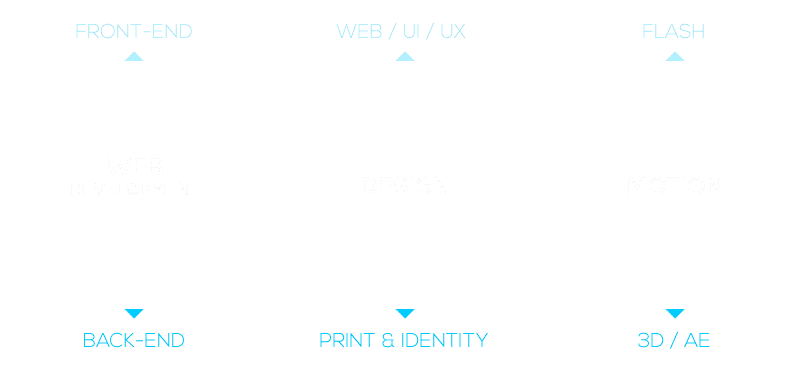
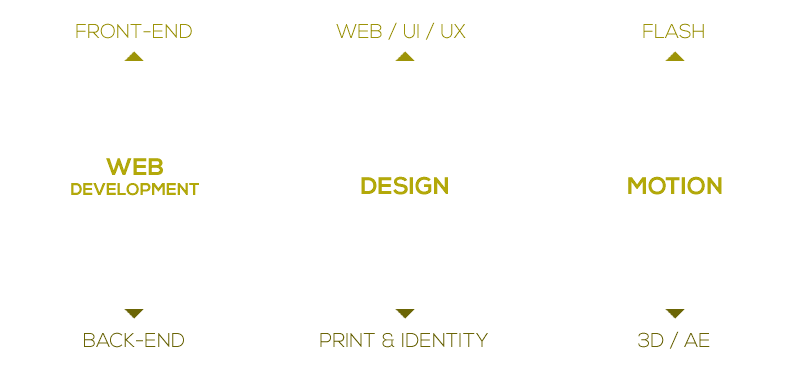
ui  changes

diff --git a/src/app/component/skills/skills.component.ts b/src/app/component/skills/skills.component.ts
@@ -1,9 +1,68 @@
 import { Component } from '@angular/core';
+import { HostListener, ElementRef } from '@angular/core';
+import {
+  trigger,
+  state,
+  style,
+  animate,
+  transition,
+  keyframes
+} from '@angular/core';
+
 
 @Component({
   templateUrl: './skills.html',
-    styleUrls:['./skills.css']
+    styleUrls:['./skills.css'],
+      animations: [
+    trigger('moveBgImageSection', [
+      state('show', style({
+        opacity:0.4,
+        transform: "translate3d(0,0,0)",
+        transition: 'all 0.5s ease-in 1s'
+      })),
+      state('hide',style({
+        opacity: 0,
+        transform: "translateX(0%)",
+        transition: 'all 0.5s ease-in 1s'
+      })),
+      transition('hide => show', animate('700ms ease-out')),
+      transition('show => hide', animate('700ms ease-out'))
+    ]),
+    trigger('moveBgImage', [
+      state('show', style({
+        opacity:0.5,
+        transform: "translate3d(0px, -101.543px, 0px) scale(1.20147)",
+        transition: 'all 0.5s ease-in 1s'
+      })),
+      state('hide',style({
+       opacity:1,
+        transform: "translateX(0%)",
+        transition: 'all 0.5s ease-in 1s'
+      })),
+      transition('hide => show', animate('700ms ease-out')),
+      transition('show => hide', animate('700ms ease-out'))
+    ]),
+  ]
 })
 
 // Component class
-export class SkillsComponent {}
+export class SkillsComponent {
+
+state = 'hide'
+
+  constructor(public el: ElementRef) { }
+
+    @HostListener('window:scroll', ['$event'])
+    checkScroll() {
+      const componentPosition = this.el.nativeElement.offsetTop
+      const scrollPosition = window.pageYOffset
+
+      if (scrollPosition >= 100) {
+        this.state = 'show'
+      } else {
+        this.state = 'hide'
+      }
+
+    }
+
+}

diff --git a/src/app/component/home/home.component.ts b/src/app/component/home/home.component.ts
@@ -1,8 +1,73 @@
 import { Component } from '@angular/core';
+import { HostListener, ElementRef } from '@angular/core';
+import {
+  trigger,
+  state,
+  style,
+  animate,
+  transition,
+  keyframes
+} from '@angular/core';
+
+
 
 @Component({
  templateUrl: './home.html',
+  animations: [
+    trigger('moveBgImageSection', [
+      state('show', style({
+        opacity:0.4,
+        transform: "translate3d(0,0,0)",
+        transition: 'all 0.5s ease-in 1s'
+      })),
+      state('hide',style({
+        opacity: 0.6,
+        transform: "translateX(0%)",
+        transition: 'all 0.5s ease-in 1s'
+      })),
+      transition('hide => show', animate('700ms ease-out')),
+      transition('show => hide', animate('700ms ease-out'))
+    ]),
+    trigger('moveBgImage', [
+      state('show', style({
+        opacity:0.5,
+        transform: "translate3d(0px, -101.543px, 0px) scale(1.20147)",
+        transition: 'all 0.5s ease-in 1s'
+      })),
+      state('hide',style({
+       
+        transform: "translateX(0%)",
+        transition: 'all 0.5s ease-in 1s'
+      })),
+      transition('hide => show', animate('700ms ease-out')),
+      transition('show => hide', animate('700ms ease-out'))
+    ]),
+  ]
 })
 
 // Component class
-export class HomeComponent {}
+export class HomeComponent {
+
+state = 'hide'
+
+  constructor(public el: ElementRef) { }
+
+    @HostListener('window:scroll', ['$event'])
+    checkScroll() {
+      const componentPosition = this.el.nativeElement.offsetTop
+      const scrollPosition = window.pageYOffset
+
+      if (scrollPosition >= 100) {
+        this.state = 'show'
+      } else {
+        this.state = 'hide'
+      }
+
+    }
+
+
+
+
+
+
+}

diff --git a/src/app/component/home/home.html b/src/app/component/home/home.html
@@ -9,8 +9,9 @@
       
     <div style="height: 962px;">
       <div class="style__page___ZJiyd template-home">
-        <figure class="style__loaded___1DGoC style__fixed___3zjcA style__poster___2yJev" style="width: 1366px;  opacity: 1; transform: translate3d(0px, 0px, 0px);">
-          <div class="style__image___1zbYM" style="background-image: url(&quot;api/cache/large___storage___db___portfolio___pages___01 - home___poster.jpg&quot;); opacity: 0.5; width: 1366px;   left: 0px; transform: translate3d(0px, 0px, 0px) scale(1); background-size: 1366px; filter: blur(0px);background-size:cover;"><img src="api/cache/large___storage___db___portfolio___pages___01 - home___poster.jpg"></div>
+        <figure [@moveBgImageSection]="state" class="style__loaded___1DGoC style__fixed___3zjcA style__poster___2yJev" 
+        style="width: 1366px;">
+          <div [@moveBgImage]='state'  class="style__image___1zbYM" style="background-image: url(&quot;api/cache/large___storage___db___portfolio___pages___01 - home___poster.jpg&quot;); opacity: 0.5; width: 1366px;   left: 0px; transform: translate3d(0px, 0px, 0px) scale(1); background-size: 1366px; filter: blur(0px);background-size:cover;"><img src="api/cache/large___storage___db___portfolio___pages___01 - home___poster.jpg"></div>
         </figure>
         <section class="main-wrapper style__main___1KuTD style__hasPoster___3P6NN">
           <div class="style__mainWrapper___2eAnb">
@@ -104,4 +105,5 @@
         </section>
       </div>
     </div>
+    
   </div>

diff --git a/src/app/component/skills/skills.html b/src/app/component/skills/skills.html
@@ -1,6 +1,11 @@
-<div id="about" class=""><div class="spacer"></div>
+<div id="about"  class="">
+	<div class="spacer"></div>
 		<div class="no-bg"></div>
 
+         <figure [@moveBgImageSection]="state" class="style__loaded___1DGoC style__fixed___3zjcA style__poster___2yJev" 
+        style="width: 1366px;">
+          <div [@moveBgImage]='state'  class="style__image___1zbYM" style="background-image: url(&quot;api/cache/profile.jpg&quot;); opacity: 0.5; width: 1366px;   left: 0px; transform: translate3d(0px, 0px, 0px) scale(1); background-size: 1366px; filter: blur(0px);background-size:cover;"><img src="api/cache/profile.jpg"></div>
+        </figure>
 		<section class="column visible">
 			<h2>About</h2>
 			<div class="sep delay-5"></div>

diff --git a/src/app/component/skills/skills.css b/src/app/component/skills/skills.css
@@ -1989,7 +1989,7 @@ h2 {
     height: 1px;
     width: 0;
     opacity: 0;
-    background: #27B6FF;
+    background:#b3a577;
     -webkit-transition: 0.5s;
     -moz-transition: 0.5s;
     -ms-transition: 0.5s;
